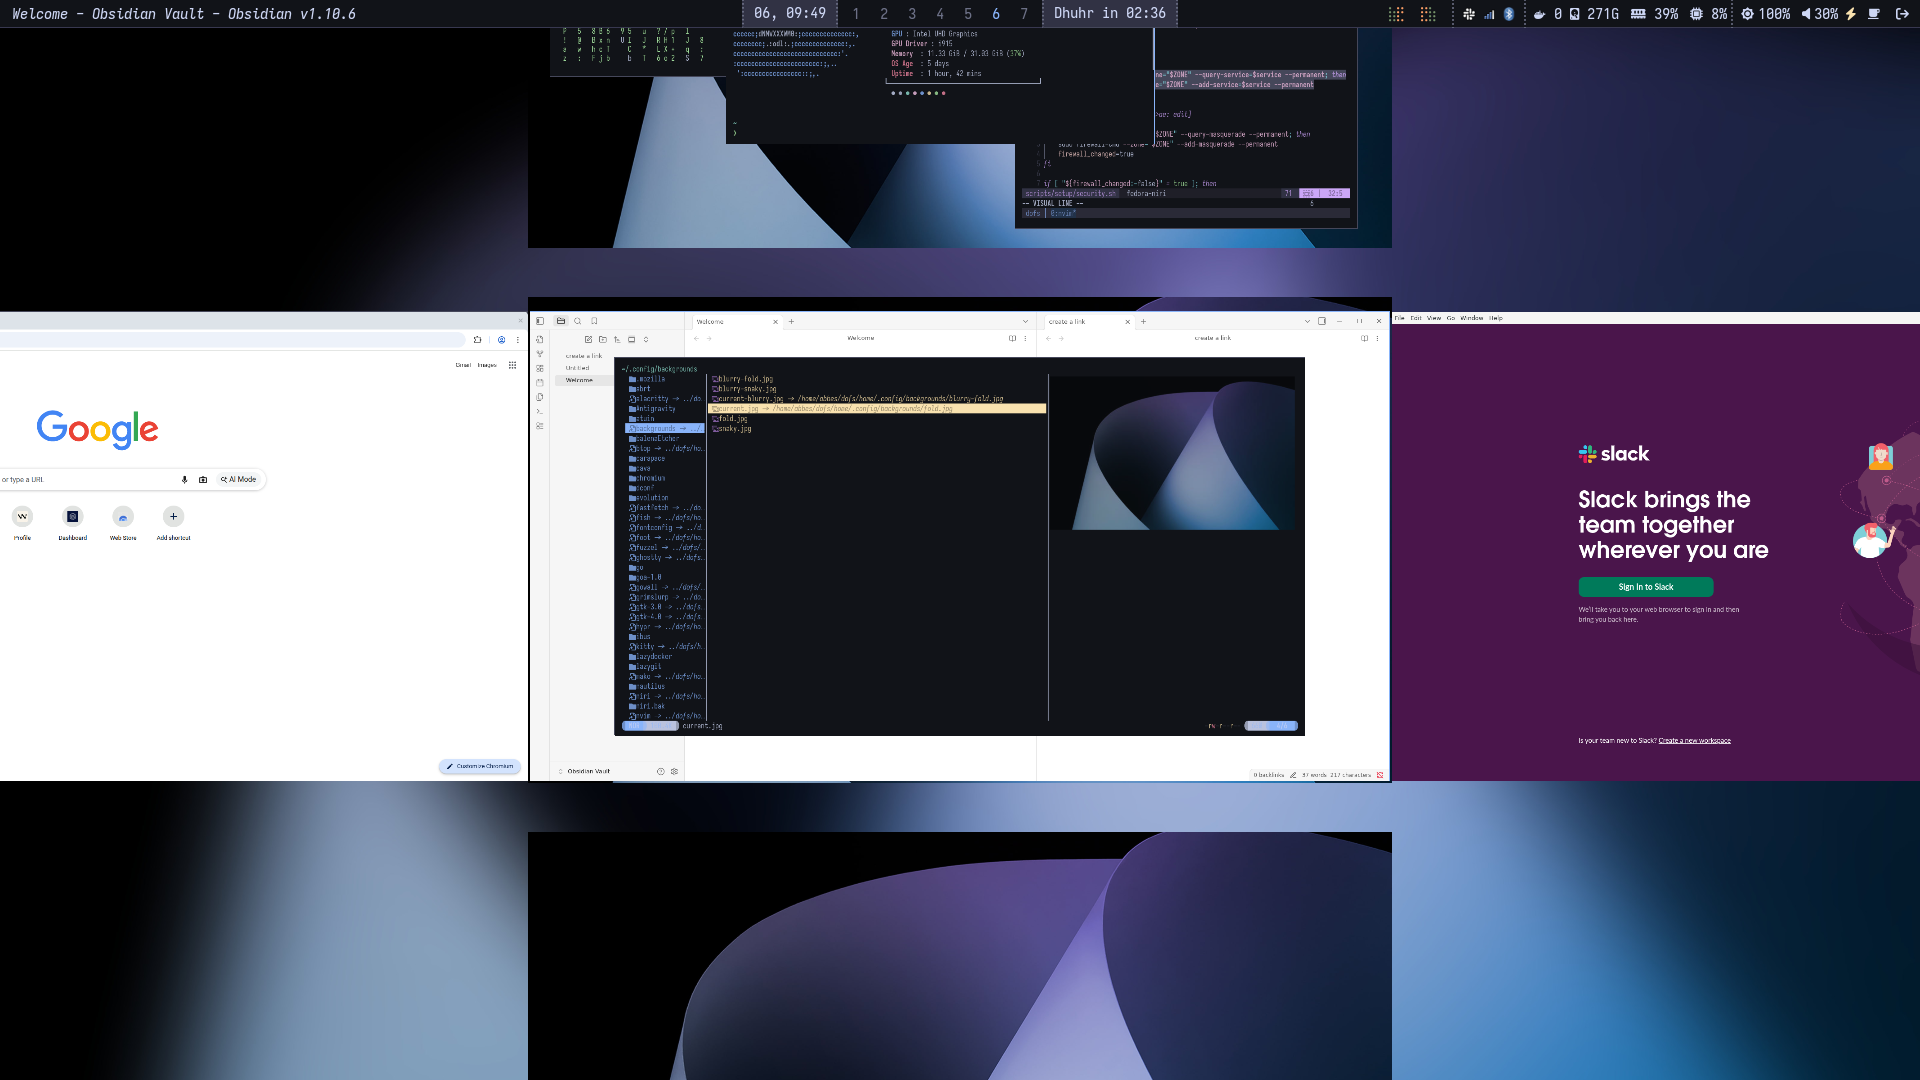
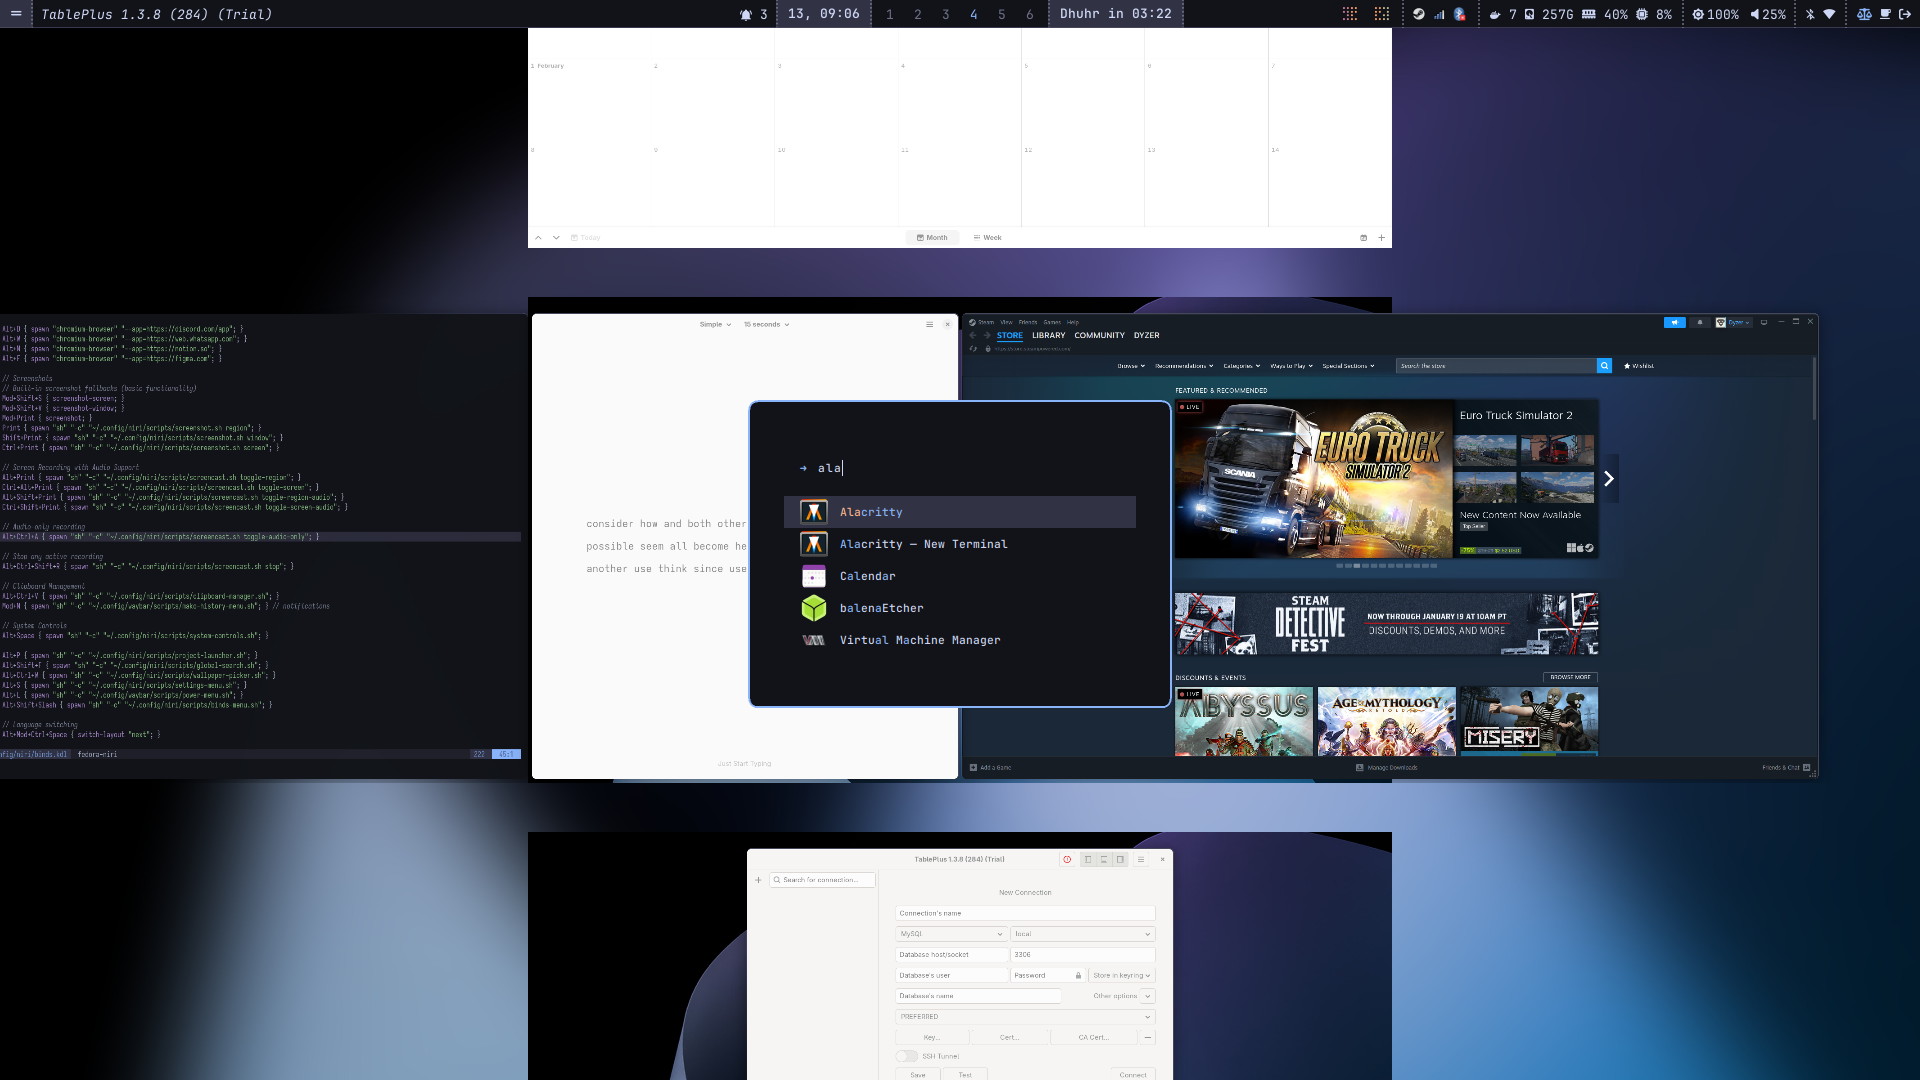
feat(niri): update screenshots

diff --git a/README.md b/README.md
@@ -1,8 +1,11 @@
 # dofs - Fedora Workstation Dotfiles with Niri
 
 ![Niri overview](home/.config/screenshots/niri-overview.png)
-![Neovim + fastfetch](home/.config/screenshots/fastfetch-floating.png)
-![Togglable crystal dock](home/.config/screenshots/togglable-crystal-dock.png)
+![btop floating](home/.config/screenshots/btop-floating.png)
+![Decoration apps](home/.config/screenshots/decoration-apps.png)
+![Niri binds](home/.config/screenshots/niri-binds.png)
+![Neovim keypunch](home/.config/screenshots/nvim-keypunch.png)
+![Yazi floating](home/.config/screenshots/yazi-floating.png)
 
 A unified, reproducible dotfiles setup for Fedora Workstation featuring:
 
